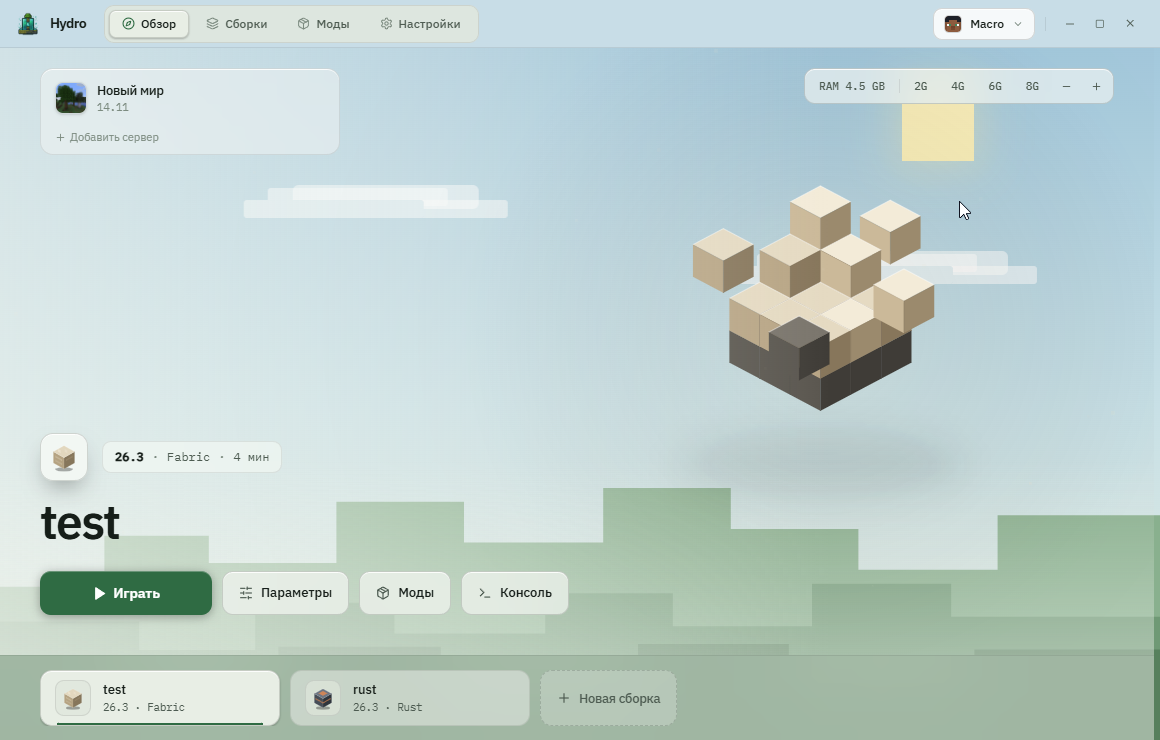
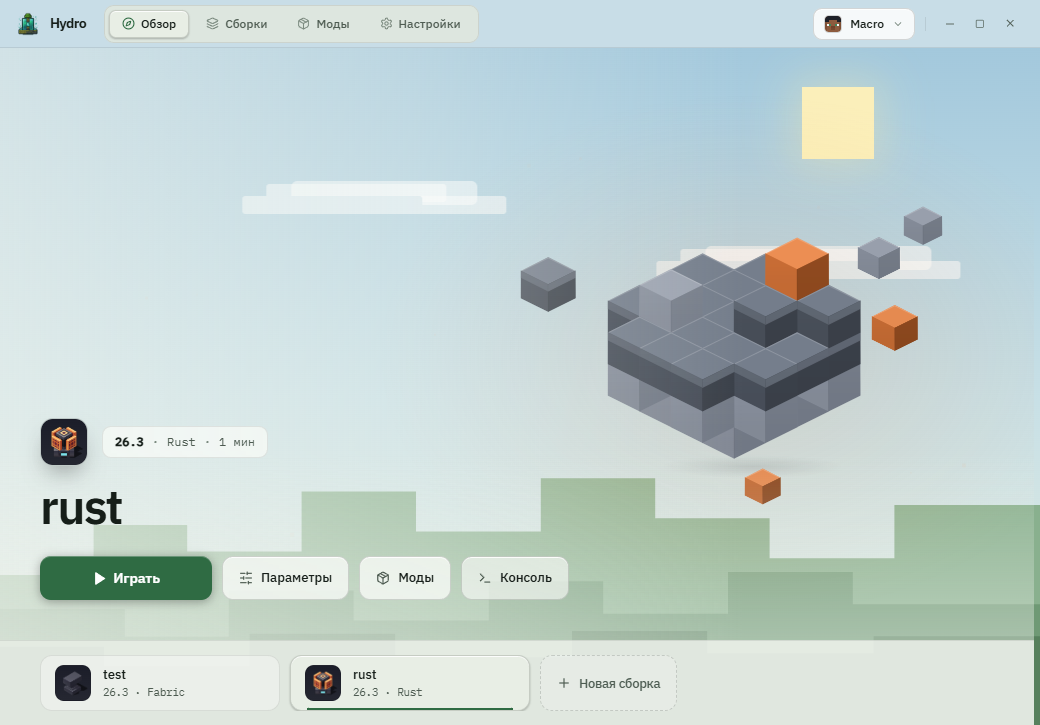
docs(readme): актуальные скриншоты интерфейса
Снимки из 0.1.x заменены на текущие (0.2.7): главная во всех трёх темах,
список сборок, карточка сборки с модами, каталог Modrinth и настройки.

В README обновлены ссылки и подписи, добавлен кадр карточки сборки,
убран устаревший комментарий про версию скриншотов.

diff --git a/README.md b/README.md
@@ -13,20 +13,22 @@
 
 | Сборки | Каталог модов (Modrinth) |
 | --- | --- |
-| ![Сборки](screenshots/instances.png) | ![Моды](screenshots/mods.png) |
+| ![Сборки](screenshots/instances-night.png) | ![Каталог модов](screenshots/mods-night.png) |
 
-![Настройки](screenshots/settings.png)
+| Моды сборки | Настройки |
+| --- | --- |
+| ![Моды сборки](screenshots/instance-mods-night.png) | ![Настройки](screenshots/settings-night.png) |
 
 <details>
 <summary>Другие темы оформления («Сумерки» и «День»)</summary>
 
 | Сумерки | День |
 | --- | --- |
-| ![Главная — тема «Сумерки»](screenshots/main.png) | ![Главная — тема «День»](screenshots/main-day.png) |
+| ![Главная — тема «Сумерки»](screenshots/main-sumerki.png) | ![Главная — тема «День»](screenshots/main-day.png) |
 
 </details>
 
-_Скриншоты сделаны в 0.1.x; в актуальной версии добавлены трей, история бэкапов миров и архивы сборок._
+_Скриншоты сделаны в HydroLauncher 0.2.7._
 
 ---
 

diff --git a/CHANGELOG.md b/CHANGELOG.md
@@ -6,6 +6,10 @@
 
 ## [Unreleased]
 
+### Документация
+- README: актуальные скриншоты 0.2.7 — три темы оформления, список сборок,
+  карточка сборки, каталог модов и настройки вместо снимков из 0.1.x.
+
 ### Исправлено
 - Подсказки про нативные моды Horizon приведены к текущей схеме: `.hnmod` —
   это Rust-исходники, которые официальный лаунчер собирает против готового
